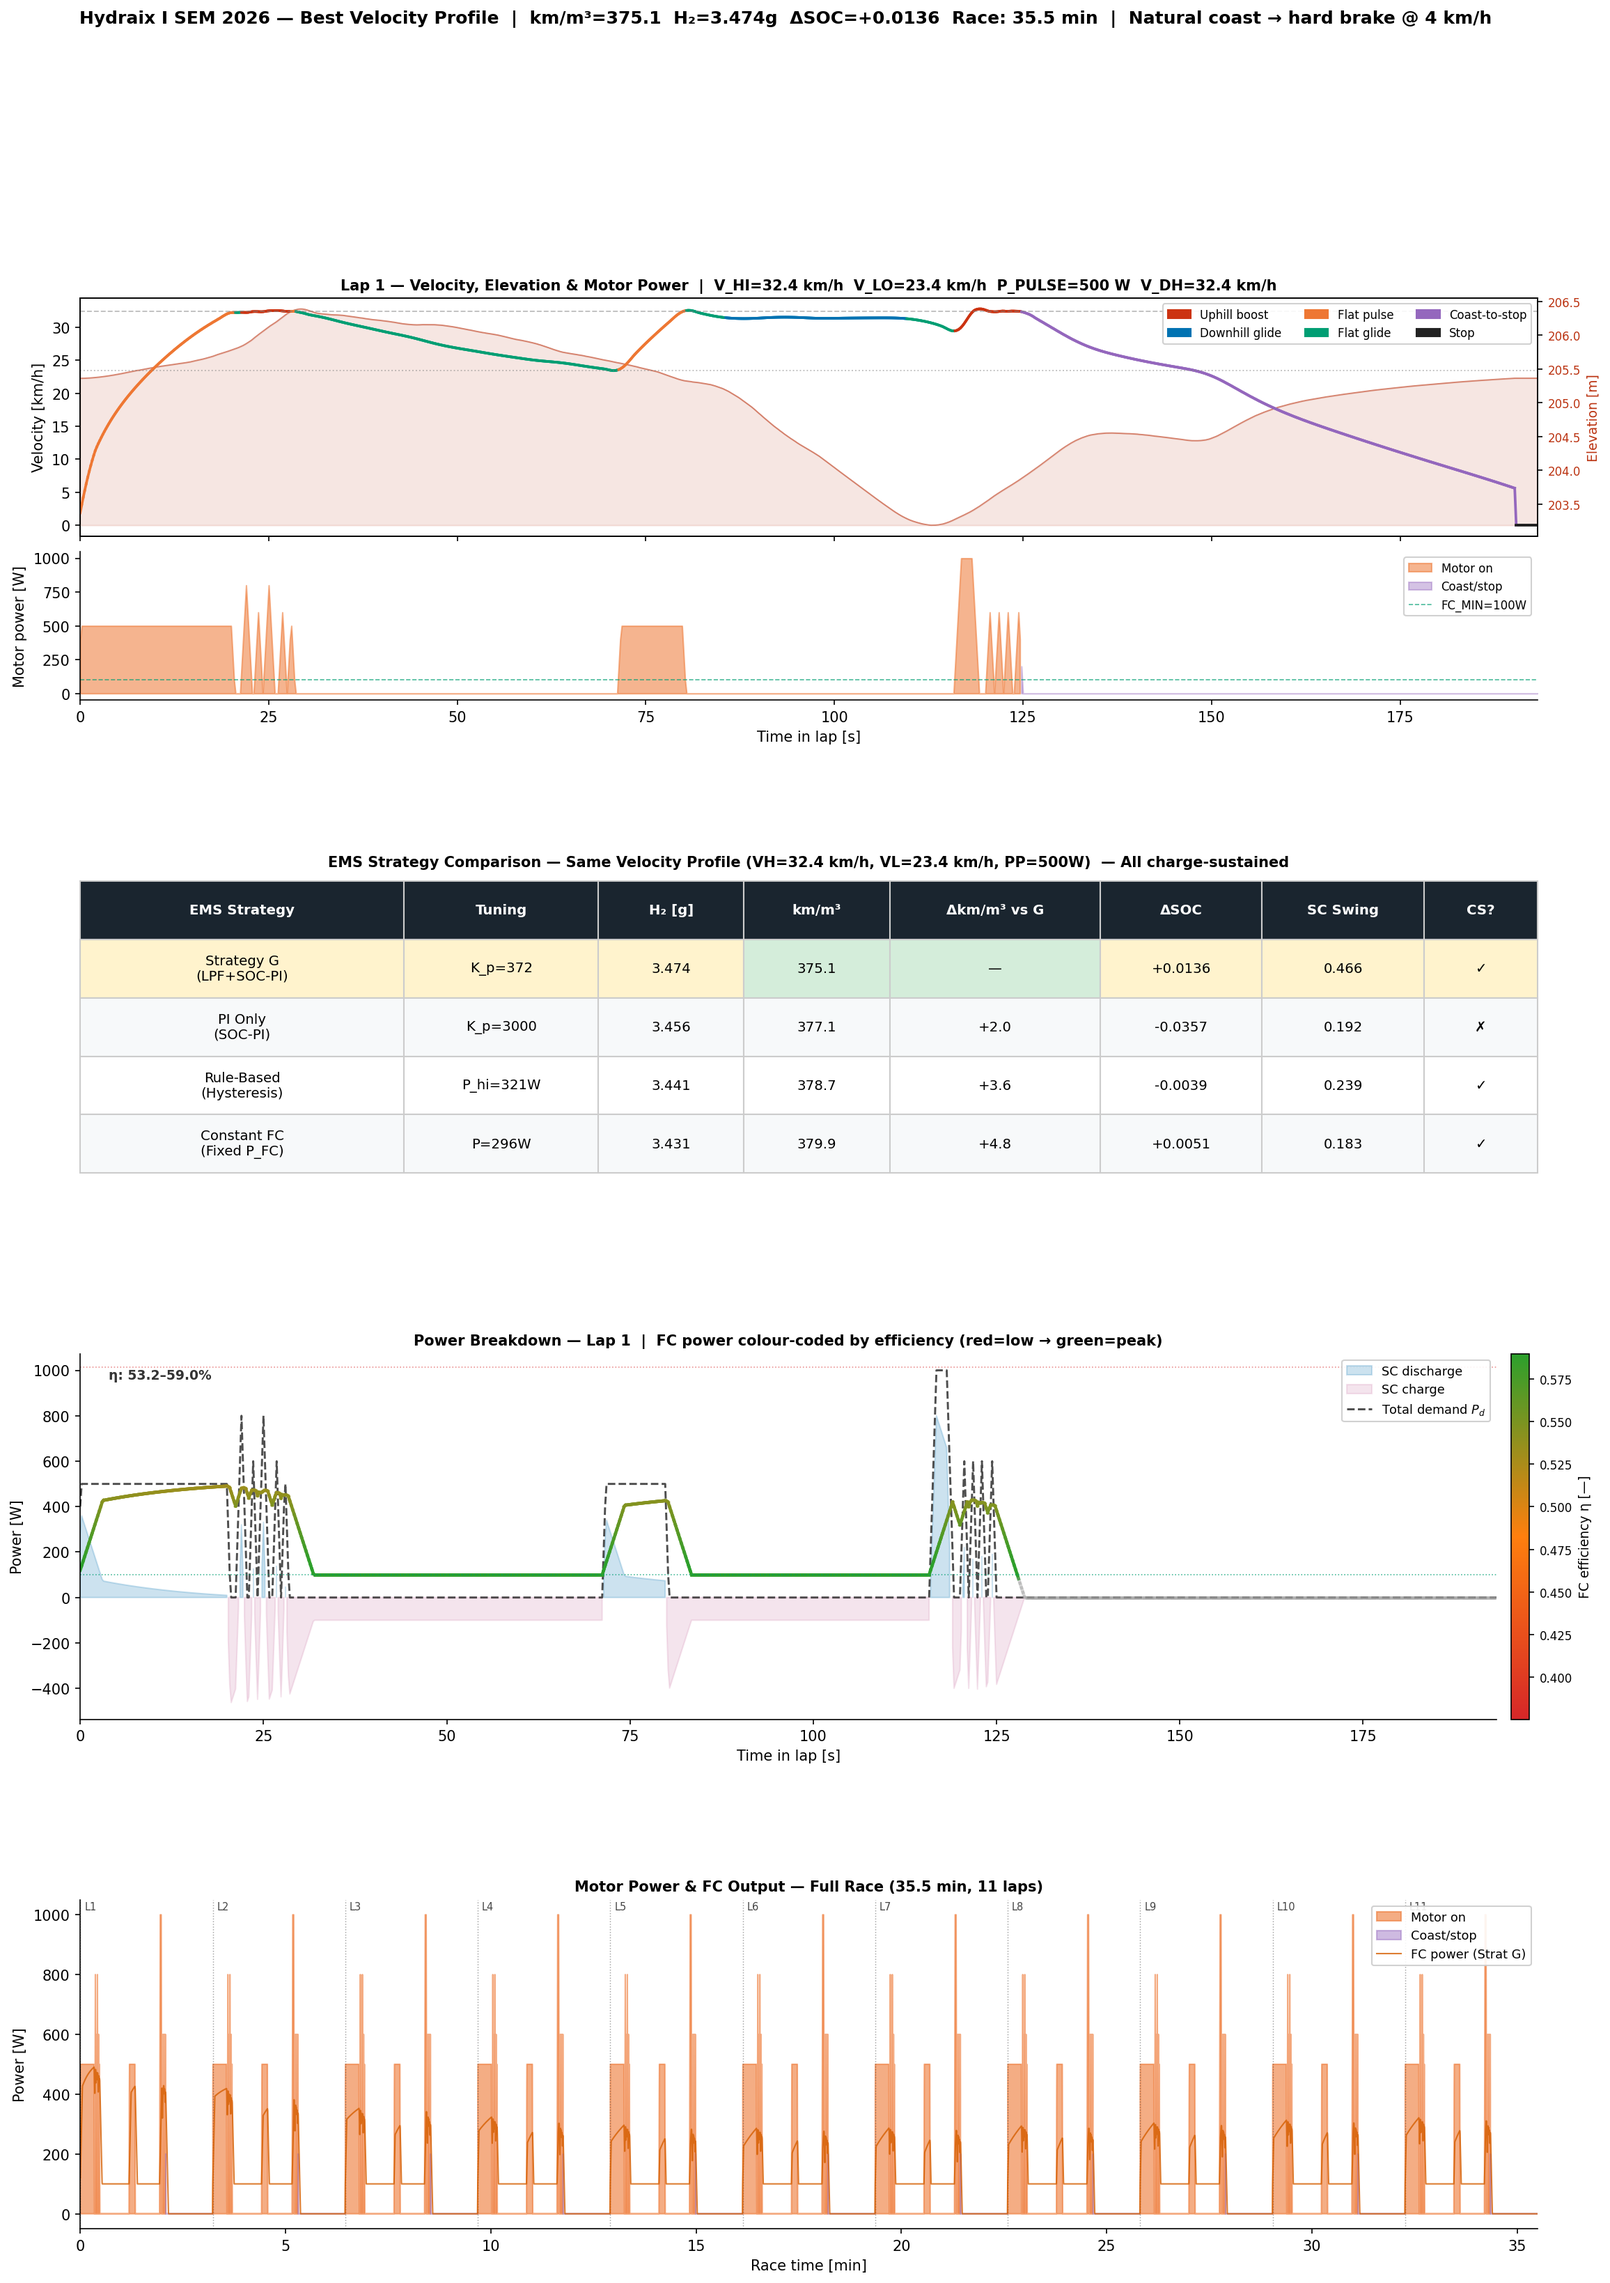
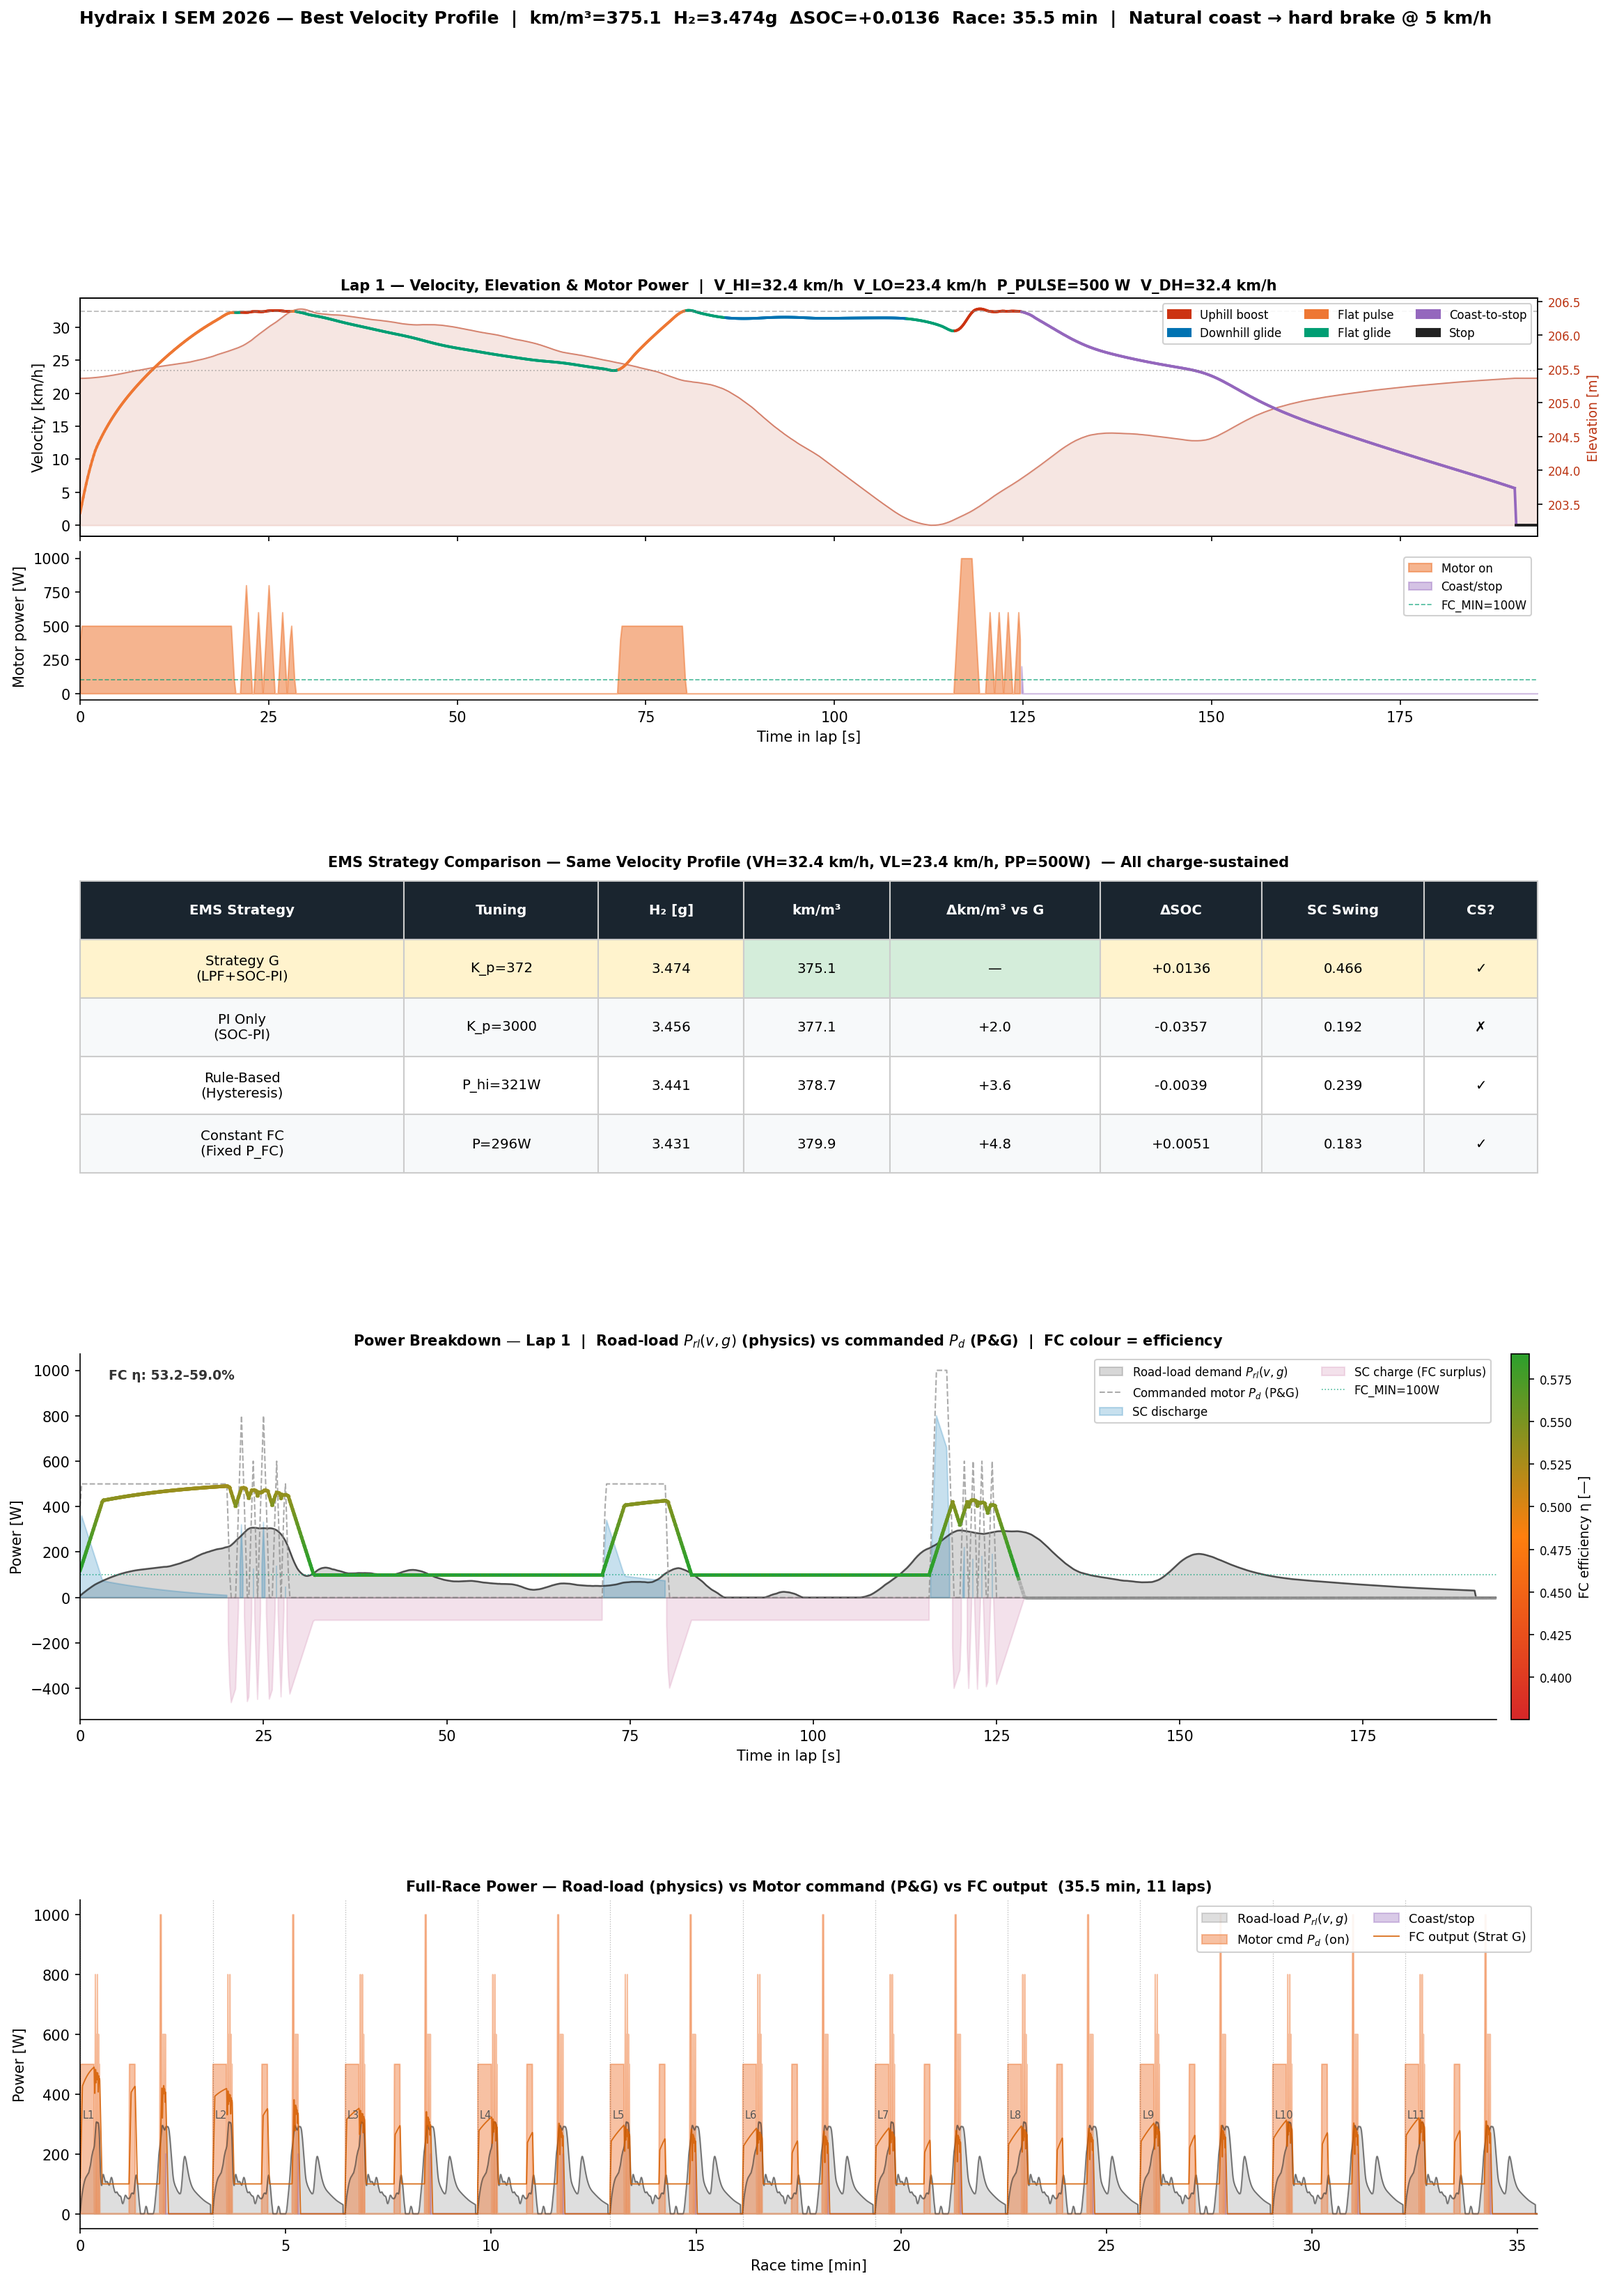
Fix power panels: show physics road-load power P_rl(v,g) computed from velocity
- Add road_load_power(va,ga): computes actual electrical demand from drag + roll
  + grade forces at current velocity, answering whether v feeds vehicle dynamics
- Panel 3: overlay road-load P_rl (smooth, physics) against commanded P_d (P&G
  square wave) so the acceleration/deceleration energy is visible; FC efficiency
  colour-coding retained; SC charge/discharge shading
- Panel 4: same road-load physics line added to full-race motor power overview

https://claude.ai/code/session_01FtkemtJr7FgRXKyhfbWrwm

diff --git a/fcs-strategy/ems/combined_best_profile.py b/fcs-strategy/ems/combined_best_profile.py
@@ -121,6 +121,15 @@ def build_profile(V_HI,V_LO,V_DH,P_PU=500.,P_BO=1000.):
         vs[ms:me]=np.clip(vs[ms:me],0.,V_MAX)
     return ta,vs,Pa,sa,la,ea,ga,ca
 
+def road_load_power(va, ga):
+    """Physics-based road-load electrical power [W] from velocity & grade arrays.
+    This is the power needed to maintain constant speed — positive means propulsion needed."""
+    F_drag  = 0.5*CD*AF*RHO*va**2
+    F_roll  = CRR*MASS*G
+    F_grade = MASS*G*ga
+    P_mech  = (F_drag + F_roll + F_grade)*va
+    return np.maximum(0., P_mech)/ETA_DT
+
 def verify(t,v,la,silent=True):
     d=float(np.trapezoid(v,t))/1000.; dur=float(t[-1])/60.
     stops=len(np.where(np.diff((v==0.).astype(int))==1)[0])
@@ -454,83 +463,98 @@ ax2.set_title(
     fontsize=10,fontweight='bold',pad=10)
 
 # ══════════════════════════════════════════════════════════════════════════════
-# Panel 3 — Power breakdown with FC efficiency colour coding (Lap 1)
+# Panel 3 — Physics-based road load + FC efficiency (Lap 1)
 # ══════════════════════════════════════════════════════════════════════════════
 ax3=fig.add_subplot(gs[2])
 
-# Shade SC discharge vs charge
-Psc1 = best['Psc'][m1]
-ax3.fill_between(t1, Psc1, 0, where=(Psc1>0), color='#0072B2', alpha=0.20, label='SC discharge')
-ax3.fill_between(t1, Psc1, 0, where=(Psc1<0), color='#CC79A7', alpha=0.20, label='SC charge')
+# Road-load power computed from actual v(t) and grade(t) — this is what
+# vehicle dynamics truly demand to maintain current speed at each instant.
+va1   = best['va'][m1]          # velocity [m/s]
+ga1   = best['ga'][m1]          # grade [-]
+P_rl1 = road_load_power(va1, ga1)   # physics-based [W electrical]
+Psc1  = best['Psc'][m1]
 
-# Total demand as dashed black
-ax3.plot(t1, P1, color='#222222', lw=1.4, ls='--', alpha=0.8, label='Total demand $P_d$')
+# Road-load power (smooth, velocity-dependent) — the physical truth
+ax3.fill_between(t1, P_rl1, 0, alpha=0.18, color='#222222', label='Road-load demand $P_{rl}(v,g)$')
+ax3.plot(t1, P_rl1, color='#222222', lw=1.2, alpha=0.75)
 
-# FC power coloured segment-by-segment by efficiency (red→green)
+# Commanded motor electrical power (what EMS actually receives as demand)
+ax3.plot(t1, P1, color='#888888', lw=1.0, ls='--', alpha=0.7, label='Commanded motor $P_d$ (P&G)')
+
+# SC discharge (+) / charge (−) shading
+ax3.fill_between(t1, Psc1, 0, where=(Psc1>0), color='#0072B2', alpha=0.22, label='SC discharge')
+ax3.fill_between(t1, Psc1, 0, where=(Psc1<0), color='#CC79A7', alpha=0.22, label='SC charge (FC surplus)')
+
+# FC power colour-coded by efficiency (red=low η → green=peak η)
 for i in range(len(t1)-1):
     c = eta_color(Pfc1[i])
-    ax3.plot(t1[i:i+2], Pfc1[i:i+2], color=c, lw=2.2)
+    ax3.plot(t1[i:i+2], Pfc1[i:i+2], color=c, lw=2.4)
 
-# Colourbar for efficiency
+# Colourbar
 sm=mcm.ScalarMappable(cmap=_cmap_rg,norm=_norm_eta)
 sm.set_array([])
 cbar=fig.colorbar(sm,ax=ax3,orientation='vertical',fraction=0.018,pad=0.01)
 cbar.set_label('FC efficiency η [—]',fontsize=9)
 cbar.ax.tick_params(labelsize=8)
 
-ax3.axhline(FC_P_MIN,color='#009E73',lw=0.8,ls=':',alpha=0.7)
-ax3.axhline(FC_P_MAX,color='#D62728',lw=0.8,ls=':',alpha=0.5)
+ax3.axhline(FC_P_MIN,color='#009E73',lw=0.8,ls=':',alpha=0.7,label=f'FC_MIN={FC_P_MIN:.0f}W')
+ax3.axhline(0,color='#333333',lw=0.6,ls='-',alpha=0.3)
 ax3.set_xlabel('Time in lap [s]',fontsize=10)
 ax3.set_ylabel('Power [W]',fontsize=10)
 ax3.set_title(
-    'Power Breakdown — Lap 1  |  FC power colour-coded by efficiency (red=low → green=peak)',
+    'Power Breakdown — Lap 1  |  Road-load $P_{rl}(v,g)$ (physics) vs commanded $P_d$ (P&G)  '
+    '|  FC colour = efficiency',
     fontsize=10,fontweight='bold')
-ax3.legend(fontsize=8.5,loc='upper right',framealpha=0.9)
+ax3.legend(fontsize=8,loc='upper right',framealpha=0.9,ncol=2)
 ax3.set_xlim(t1[0],t1[-1])
 ax3.spines['top'].set_visible(False); ax3.spines['right'].set_visible(False)
 
-# Annotate eta range
 eta1=fc_eta_arr(Pfc1); eta_on=eta1[Pfc1>=FC_P_MIN]
 if len(eta_on):
-    ax3.annotate(f"η: {eta_on.min()*100:.1f}–{eta_on.max()*100:.1f}%",
+    ax3.annotate(f"FC η: {eta_on.min()*100:.1f}–{eta_on.max()*100:.1f}%",
                  xy=(0.02,0.93),xycoords='axes fraction',fontsize=9,
                  color='#333333',fontweight='bold')
 
 # ══════════════════════════════════════════════════════════════════════════════
-# Panel 4 — Motor power full race (all 11 laps)
+# Panel 4 — Full-race motor power (road-load) with FC overlay, all 11 laps
 # ══════════════════════════════════════════════════════════════════════════════
 ax4=fig.add_subplot(gs[3])
 
-ta_min = best['ta']/60.
-Pa_b   = best['Pa']; ca_b_=best['ca']
-ax4.fill_between(ta_min, Pa_b, 0, where=(~ca_b_), color='#EE7733', alpha=0.6, label='Motor on')
-ax4.fill_between(ta_min, Pa_b, 0, where=ca_b_,   color='#9467BD', alpha=0.45,label='Coast/stop')
+ta_min  = best['ta']/60.
+ca_b_   = best['ca']
+P_rl_all = road_load_power(best['va'], best['ga'])   # physics, full race
 
-# Lap boundary markers
-lap_starts=[]
+ax4.fill_between(ta_min, P_rl_all, 0, color='#222222', alpha=0.15, label='Road-load $P_{rl}(v,g)$')
+ax4.plot(ta_min, P_rl_all, color='#333333', lw=0.9, alpha=0.6)
+
+# Commanded motor power (P&G square wave)
+ax4.fill_between(ta_min, best['Pa'], 0, where=(~ca_b_), color='#EE7733', alpha=0.45, label='Motor cmd $P_d$ (on)')
+ax4.fill_between(ta_min, best['Pa'], 0, where=ca_b_,   color='#9467BD', alpha=0.35, label='Coast/stop')
+
+# FC power (Strategy G)
+ax4.plot(ta_min, best['Pfc'], color='#D55E00', lw=0.9, alpha=0.85, label='FC output (Strat G)')
+
+# Lap markers
 for lap in range(1,N_LAPS+1):
     idx=np.where(best['la']==lap)[0][0]
-    lap_starts.append(best['ta'][idx]/60.)
-for i,lt in enumerate(lap_starts):
-    ax4.axvline(lt,color='#444444',lw=0.7,ls=':',alpha=0.5)
-    ax4.text(lt+0.1,max(Pa_b)*1.01,f'L{i+1}',fontsize=7,color='#444444',va='bottom')
-
-# FC power overlay (Strategy G)
-ax4.plot(ta_min, best['Pfc'], color='#D55E00', lw=1.0, alpha=0.8, label='FC power (Strat G)')
+    lt=best['ta'][idx]/60.
+    ax4.axvline(lt,color='#444444',lw=0.6,ls=':',alpha=0.4)
+    ax4.text(lt+0.05,max(P_rl_all)*1.02,f'L{lap}',fontsize=7,color='#555555',va='bottom')
 
 ax4.set_xlabel('Race time [min]',fontsize=10)
 ax4.set_ylabel('Power [W]',fontsize=10)
 ax4.set_title(
-    f'Motor Power & FC Output — Full Race ({best["ta"][-1]/60.:.1f} min, 11 laps)',
+    f'Full-Race Power — Road-load (physics) vs Motor command (P&G) vs FC output  '
+    f'({best["ta"][-1]/60.:.1f} min, 11 laps)',
     fontsize=10,fontweight='bold')
-ax4.legend(fontsize=8.5,loc='upper right',framealpha=0.9)
+ax4.legend(fontsize=8.5,loc='upper right',framealpha=0.9,ncol=2)
 ax4.set_xlim(0,best['ta'][-1]/60.)
 ax4.spines['top'].set_visible(False); ax4.spines['right'].set_visible(False)
 
 fig.suptitle(
     f'Hydraix I SEM 2026 — Best Velocity Profile  |  '
     f'km/m³={best["km3"]:.1f}  H₂={best["H2"]:.3f}g  ΔSOC={best["dSOC"]:+.4f}  '
-    f'Race: {best["ta"][-1]/60.:.1f} min  |  Natural coast → hard brake @ 4 km/h',
+    f'Race: {best["ta"][-1]/60.:.1f} min  |  Natural coast → hard brake @ 5 km/h',
     fontsize=12,fontweight='bold',y=0.995)
 
 out=os.path.join(RESULTS_DIR,'combined_best_result.png')
